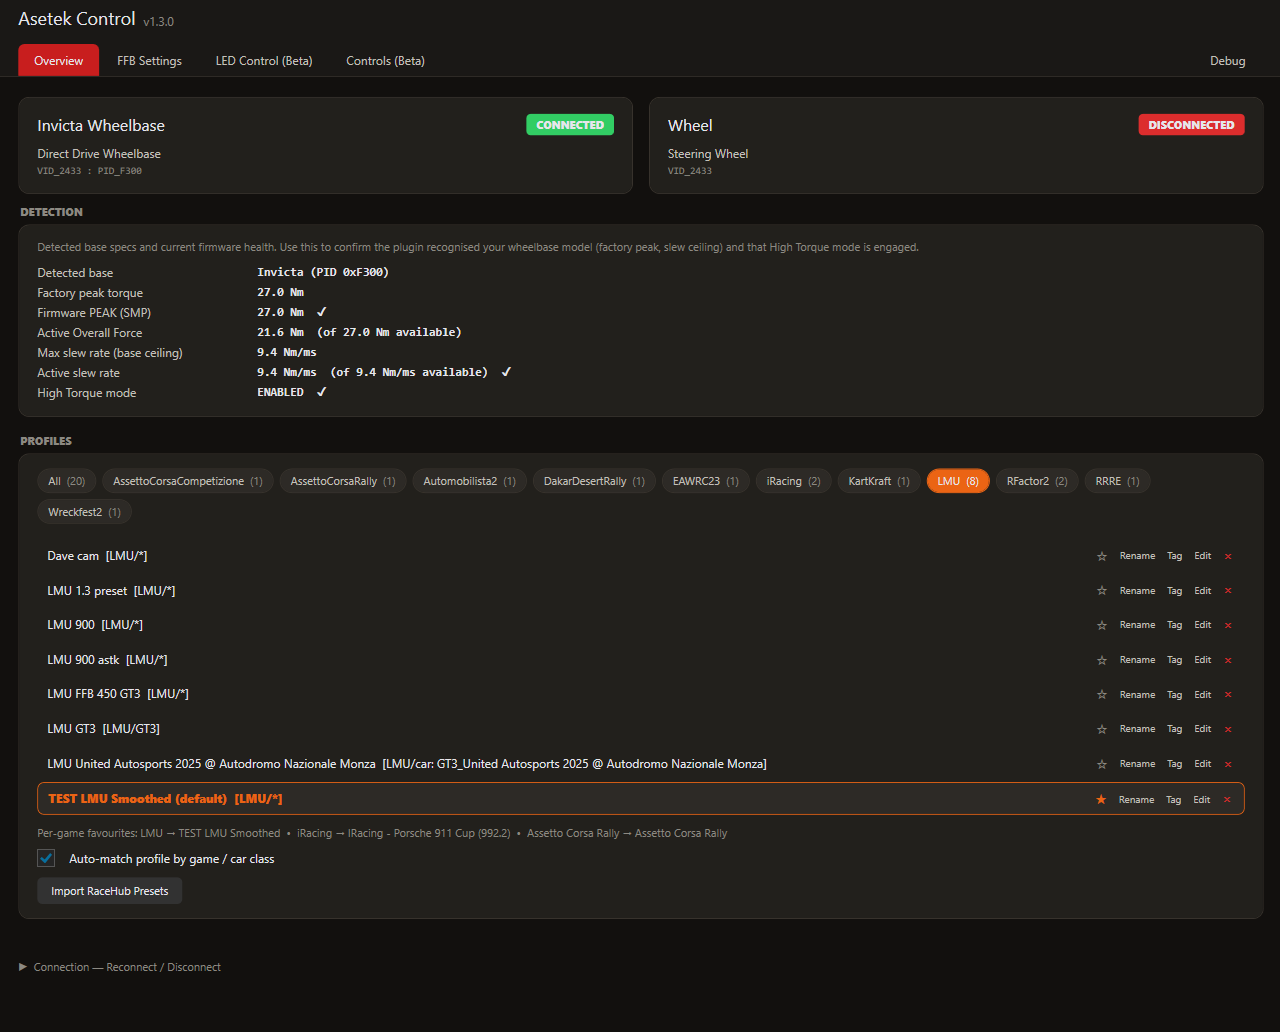
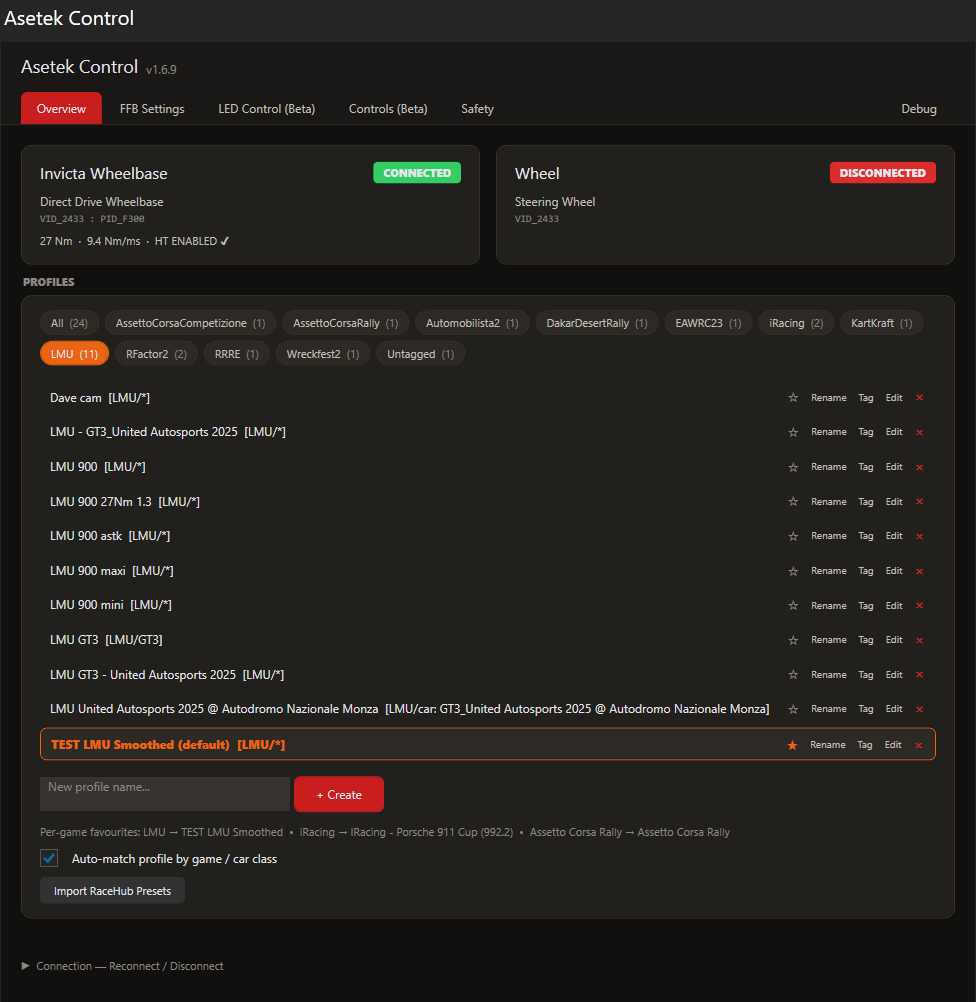
v1.6.9 — refresh README + screenshots
- Updated screenshots: overview, core (FFB), adaptive-ffb, save-bar, shift-beep, debug
- Refreshed README for v1.6.9 — single-line wheelbase summary, AutoMatch profiles,
  Adaptive FFB Zones beta, Tony Kanaan support, Linux support, community roadmap
- Removed outdated technical details that were RaceHub-protocol specific

diff --git a/README.md b/README.md
@@ -1,128 +1,93 @@
-# Asetek Control — SimHub Plugin for Invicta, Forte & La Prima
+# Asetek Control — SimHub Plugin for Invicta, Forte, La Prima & Tony Kanaan
 
-> **Beta Release — v1.3.1-beta**
+> **v1.6.9-beta — May 2026**
 
-A SimHub plugin that extends the Asetek SimSports ecosystem with **automatic per-game FFB profiles**, **True Steering Lock**, **in-game FFB adjustment via wheel buttons**, and **LED control** — all from within SimHub, using the exact same FFB engine and protocol as RaceHub.
+A SimHub plugin for **Asetek SimSports** wheelbases. Delivers **FFB output strictly identical to Asetek's native software** — and adds a **per-car / per-track profile system** that auto-loads the right setup when SimHub detects your active sim, car and track.
 
----
+Independent, parallel project — not affiliated with Asetek SimSports or RaceHub. It complements Asetek's official software for users who want to drive their wheelbase from inside the SimHub ecosystem.
 
-## What this plugin does
-
-Asetek RaceHub is the official companion software and delivers an excellent FFB experience. This plugin **does not replace RaceHub** — it builds on top of the same USB protocol to add workflow features that sim racers have been requesting:
-
-1. **Per-game / per-car FFB profiles** — Save unlimited profiles and auto-load the right one when you switch sims or cars. No manual adjustment between sessions.
-2. **True Steering Lock** — Automatically match the wheelbase steering range to the car you're driving (e.g., 380 for a Hypercar, 540 for a GT3).
-3. **In-game FFB adjustment** — Change FFB strength directly from your wheel buttons while driving, without alt-tabbing.
-4. **RaceHub XML import** — Import your existing RaceHub presets directly, so your tuned FFB carries over seamlessly.
-
-The FFB values sent to the wheelbase are **strictly identical** to those sent by RaceHub — same addresses, same protocol, same firmware behavior. The plugin simply provides additional tools to manage and switch between them.
+> 🐧 **Linux support** — Because the plugin runs inside SimHub, and SimHub for Linux now exists, this is the first time an Asetek wheelbase can be configured and tuned from a Linux machine (Ubuntu, Steam Deck OS, any desktop Linux). Same DLL, same features.
 
 ---
 
 ## Screenshots
 
-### Overview — Detection & Profiles
+### Overview — wheelbase summary at a glance
 ![Overview](screenshots/overview.png)
 
-Auto-detects your wheelbase model (Invicta / Forte / La Prima), reads firmware PEAK torque and High Torque status, and manages per-game profiles with one-click switching.
+Detected base, single-line wheelbase summary (*"27 Nm · 9.4 Nm/ms · HT ENABLED ✓"*), profile selector with star-favourite per game, and the AutoMatch banner.
 
-### FFB Settings — Full Parameter Control
-![FFB Settings](screenshots/ffb%20settings.png)
+### FFB Core — all parameters, RaceHub-strict
+![FFB Core](screenshots/core.png)
 
-All wheelbase parameters with sliders matching RaceHub values: Overall Force, Steering Range, Damping, Friction, Inertia, Anti-Oscillation, Torque Prediction, Slew Rate, HF Limit, Cornering Assist, Bumpstop. Quick-save buttons create profiles tagged by game, car, or track.
+All wheelbase parameters — Overall Force, Steering Range, Damping, Friction, Inertia, Anti-Oscillation, Torque Prediction, HF Limit, Cornering Assist, Bumpstop. Values delivered to the firmware are strictly identical to Asetek's native software.
 
-### Game-Change Banner
-![Game Change Banner](screenshots/Banner%20game-change.png)
+### Quick-save bar — tag profiles by Car, Track, or both
+![Save bar](screenshots/save-bar.png)
 
-When SimHub switches to a new sim, the plugin auto-reconnects and loads the matching profile. A banner guides you if the base needs a physical button press.
+One click creates a profile tagged with the current Game + Car + Track context. AutoMatch loads it back instantly the next time you race the same combo.
 
-### Editable Profile Combo
-![Profile Combo](screenshots/Profile%20combo%20editable.png)
+### Adaptive FFB Zones (beta)
+![Adaptive FFB](screenshots/adaptive-ffb.png)
 
-Type a new profile name to create it, or pick an existing one to overwrite — all from the same dropdown in FFB Settings.
+Per-track, per-car learned softening of clipping zones. The plugin learns where you saturate FFB on each circuit and applies modulation only in those zones — full force everywhere else.
 
-### LED Control (Beta)
-![LED Control](screenshots/Led%20control.png)
+### Shift Beep & LED control
+![Shift Beep](screenshots/shift-beep.png)
 
-Center LED color and flag mode, Forte rev-light patterns driven by game telemetry.
+Configurable rev-light patterns, flag colours, and an optional shift beep — all driven by SimHub telemetry.
 
-### Controls — Button Mapping (Beta)
-![Controls](screenshots/button%20Mapping.png)
+### Debug — for support, not daily use
+![Debug](screenshots/debug.png)
 
-Assign wheel buttons to any plugin action using SimHub native binding system.
+Dump Diagnostic, RaceHub recovery banner, and advanced actions behind an expander. Most users will never need to open this tab.
 
 ---
 
-## Features
+## What this plugin does
 
-### Confirmed Working
-
-| Feature | Description |
-|---------|-------------|
-| **Auto base detection** | Enumerates VID_2433 on connect and auto-identifies Invicta / Forte / La Prima. Slider ceilings adapt to the detected base spec (12 / 16 / 18 / 27 Nm). |
-| **Game-detect timer** | Polls DataCorePlugin.CurrentGame every 2s — profile loads as soon as SimHub detects a sim, even before telemetry flows. |
-| **True Steering Lock** | Auto-syncs steering range from the game (LMU REST API + per-car CarClass detection). |
-| **FFB Settings** | Full control of all wheelbase parameters — identical values to RaceHub. |
-| **Per-game favourites** | Star a profile per game — the starred profile auto-loads on game launch. |
-| **Auto-match profiles** | Profiles tagged with Game / CarClass / CarId auto-load when you switch sims or cars. |
-| **RaceHub preset import** | One-click import of RaceHub XML presets from Documents\RaceHub Profiles\Wheelbase\Backup\. |
-| **FFB Strength +/-** | Bindable SimHub actions — assign to wheel buttons for on-the-fly force adjustment. |
-| **Steering Range / Force Presets** | Quick-switch between 360 / 540 / 900 / 1080 and Low/Med/High/Max force. |
-| **Auto-reconnect** | Detects stale HID handles after game switches and reconnects automatically. |
-| **RaceHub auto-pause** | Detects when RaceHub is running and auto-disconnects so the two apps never conflict. |
-| **Firmware health monitoring** | Reads SMP_TORQUELIMIT_PEAK and High Torque status every 5s with degradation warnings. |
-| **Reset Torque Limits** | Restores the base to factory torque configuration in one click. |
-
-### Beta
-
-| Feature | Description |
-|---------|-------------|
-| **Wheelbase Center LED** | Set color + flag mode (auto-coloured by race flags). |
-| **Forte Rev Lights** | External control of the rev-light strip from game telemetry. |
-| **Button Mapping** | Assign wheel buttons to any plugin action. |
+- **FFB strictly matches Asetek's native software** on **Invicta, Forte, La Prima and Tony Kanaan editions**. No silent caps, no "feels light", no discrepancy between what the slider shows and what the wheel does. One click on *Restore Factory Default* (Debug tab) re-syncs the base if it ever feels off.
+- **Per-car / per-track profile system** with a 9-tier AutoMatch priority — different setups for different car classes, different tracks, different conditions, auto-loaded when SimHub detects the active sim + car + track.
+- **In-game FFB adjustment** via bindable SimHub actions — change strength, range, or cycle profiles from a wheel button.
+- **RaceHub preset import** — bring your existing tuned FFB across in one click.
 
 ---
 
 ## Supported Hardware
 
-- **Asetek Invicta Wheelbase** (PID_F300) — 27 Nm peak
-- **Asetek Forte Wheelbase** (PID_F301 / PID_F200) — 18 Nm peak
-- **Asetek La Prima Wheelbase** (PID_F303) — 12 Nm peak (16 Nm with high-power PSU)
-- **Asetek Forte GT Steering Wheel** (PID_F207)
-- **Asetek Invicta Steering Wheel** (PID_F400)
-- **Asetek Formula Forte Steering Wheel** (PID_F402)
+| Model | PID | Peak Torque |
+|-------|-----|-------------|
+| Invicta | F300 | 27 Nm |
+| Forte | F301 | 18 Nm |
+| La Prima | F303 | 12 Nm (16 Nm with high-power PSU) |
+| Tony Kanaan Signature Edition | F306 | 12 / 18 Nm |
+| Forte GT Steering Wheel | F207 | — |
+| Invicta Steering Wheel | F400 | — |
+| Formula Forte Steering Wheel | F402 | — |
 
-The plugin auto-detects the model on connect and adapts the Overall Force ceiling. Other Asetek devices may enumerate but have not been tested — please open a GitHub issue with your PID if you have one to try.
+**Initium** (the entry-level / console-compatible base) is **not supported yet** — it uses a different communication protocol. Tell us in the Discord if you'd use it.
+
+---
+
+## What's next — community-driven
+
+The FFB plumbing is now fully nailed down. From here we're opening the door to a new layer of features:
+
+- **Smart FFB modulation** — already shipping as *Adaptive FFB Zones* beta
+- **Live in-race tuning** with full slider response, no save/restart
+- **External controllers** — bind base profiles, FFB strength, smart modes to a **Stream Deck / Loupedeck** for instant in-cockpit control
+- More to come
+
+**Roadmap is driven by the community.** Tell us in the Discord which features you'd actually use — that's what gets built next.
 
 ---
 
 ## Installation
 
 1. Download `AsetekPlugin.dll` from the [Releases](../../releases) page
-2. Copy `AsetekPlugin.dll` into your SimHub installation folder (e.g., `C:\Program Files (x86)\SimHub\`)
+2. Copy it into your SimHub installation folder (e.g., `C:\Program Files (x86)\SimHub\`)
 3. Launch SimHub — the plugin appears as **"Asetek Control"** in the left menu
-
----
-
-## SimHub Properties (for dashboard developers)
-
-| Property | Type | Description |
-|----------|------|-------------|
-| `Asetek.WheelbaseConnected` | bool | Wheelbase detected |
-| `Asetek.ForteConnected` | bool | Forte GT wheel detected |
-| `Asetek.FFB.OverallForce` | double | Current overall force in Nm |
-| `Asetek.FFB.CurrentStrength` | int | Current FFB strength (main_gain 0-100) |
-| `Asetek.FFB.SteeringRange` | int | Current steering range in degrees |
-| `Asetek.FFB.Damping` | int | Damping value (0-100) |
-| `Asetek.FFB.Friction` | int | Friction value (0-100) |
-| `Asetek.FFB.Inertia` | int | Inertia value (0-100) |
-| `Asetek.FFB.SlewRate` | double | Torque Accel Limit in Nm/ms |
-| `Asetek.FFB.HfLimit` | int | High Frequency Limit in Hz |
-| `Asetek.FFB.IsClipping` | bool | FFB signal is clipping |
-| `Asetek.FFB.CurrentTorqueNm` | double | Real-time torque output in Nm |
-| `Asetek.FFB.TrueSteeringLock` | bool | True Steering Lock enabled |
-| `Asetek.Profile.ActiveName` | string | Active profile name |
-| `Asetek.Led.Mode` | string | Current LED mode |
+4. If your base ever felt lighter than its rated torque, click *Restore Factory Default* (Debug tab) once after install.
 
 ---
 
@@ -130,22 +95,13 @@ The plugin auto-detects the model on connect and adapts the Overall Force ceilin
 
 | Action | Description |
 |--------|-------------|
-| `Asetek.FFB.Strength.Up` | Increase FFB strength |
-| `Asetek.FFB.Strength.Down` | Decrease FFB strength |
-| `Asetek.FFB.SteeringRange.360/540/900/1080` | Set steering range |
 | `Asetek.FFB.Force.Low/Medium/High/Max` | Set force preset (% of detected base peak) |
+| `Asetek.FFB.Strength.Up / Down` | Increase / decrease FFB strength |
+| `Asetek.FFB.SteeringRange.360/540/900/1080` | Set steering range |
 | `Asetek.FFB.TrueSteeringLock.Toggle` | Toggle True Steering Lock |
-| `Asetek.Profile.GameCycle.Next/Prev` | Cycle profiles for the current game |
+| `Asetek.Profile.GameCycle.Next / Prev` | Cycle profiles for the current game |
 | `Asetek.ApplyAndSave` | Apply current settings and save to flash |
 | `Asetek.Reconnect` | Reconnect to devices |
-
----
-
-## Known Limitations
-
-- **True Steering Lock** currently only works with **Le Mans Ultimate / rFactor 2** (LMU REST API). Multi-sim support is on the roadmap.
-- **LED features are in beta** — behavior may vary depending on firmware version.
-- **Settings are not readable from the wheelbase** — the plugin persists your last settings locally. On first use, set all sliders to match your current RaceHub values, or import your RaceHub presets.
 
 ---
 
@@ -153,35 +109,16 @@ The plugin auto-detects the model on connect and adapts the Overall Force ceilin
 
 | Problem | Solution |
 |---------|----------|
+| Base feels lighter than its rated torque | Click **Restore Factory Default** (Debug tab) once. |
 | "RaceHub is running — paused" banner | Expected. Close RaceHub then click Reconnect. |
 | Wheelbase shows "Not detected" | Another app has the HID handle. Close RaceHub, click Reconnect. |
-| RaceHub Overall Force slider stuck at low Nm | Click **Reset Torque Limits** in Overview, then power-cycle the base. |
-| Settings don't apply | Click "Save to Wheelbase" — sliders only update the display until you save. |
 | True Steering Lock shows "err" | Make sure LMU is running and in a session (not main menu). |
-
----
-
-## Roadmap
-
-- [x] Per-game / per-car auto-match profiles (v1.0.3)
-- [x] Per-base torque and slew rate ceiling auto-detection (v1.0.5)
-- [x] One-click factory recovery for corrupted SMP limits (v1.0.8)
-- [x] Safe RaceHub coexistence — auto-pause + Disconnect/Reconnect (v1.0.8)
-- [x] Per-game favourites with star system (v1.3.0)
-- [x] Game-detect timer — profile loads before telemetry flows (v1.3.1)
-- [x] SMP PEAK degradation protection (v1.3.1)
-- [ ] Multi-sim True Steering Lock (ACC, iRacing, AMS2...)
-- [ ] In-plugin High Torque Mode toggle
-- [ ] LED patterns and animations
-- [ ] Community-contributed profiles library
-
-Feature requests and bug reports are welcome via [GitHub Issues](../../issues).
 
 ---
 
 ## License
 
-MIT License — see [LICENSE](LICENSE) file.
+MIT License — see [LICENSE](LICENSE).
 
 ---
 
@@ -193,4 +130,4 @@ If you like this plugin and want to support its development:
 
 ---
 
-*Made with passion by a sim racer, for sim racers.*
+*Made by a sim racer, for sim racers.*
